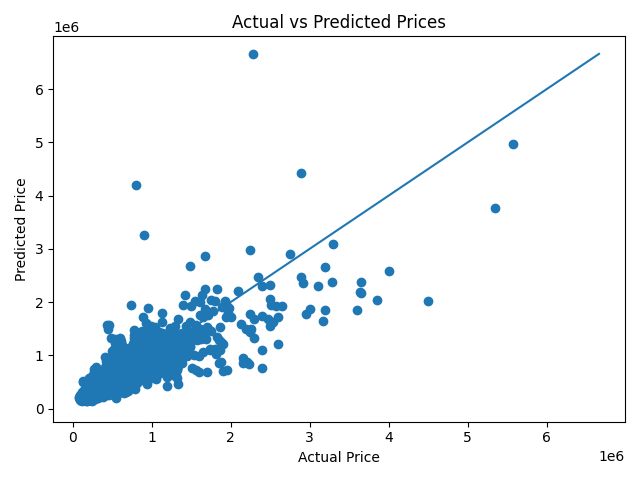
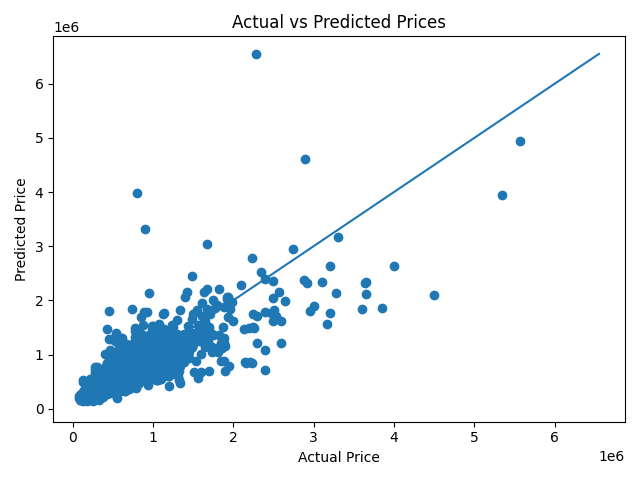
Make project deployable on free tier (Vercel + Render + Atlas)
Hosting choices
- Frontend (Vite SPA)  -> Vercel Hobby
- Backend  (Express)   -> Render Web Service (free)
- ML       (FastAPI)   -> Render Web Service (free)
- Database             -> MongoDB Atlas M0 (already in use)

Code changes
- client: introduce VITE_API_BASE_URL via a new apiFetch helper in
  src/utils/api.js. All four API call sites (AuthContext, UpdateProfile,
  ListingDetails, listingsStore) now prefix /api/... with the env URL,
  so the client can live on a different origin than the server. With
  the env var unset, local dev still uses the Vite proxy unchanged.
- server: allow CLIENT_ORIGIN to be a comma-separated list (prod +
  Vercel preview deploys). Switch JWT auth cookie to SameSite=None +
  Secure in production so cookies survive cross-site requests from
  the Vercel client to the Render API.
- ml_service: bind 0.0.0.0:$PORT (with reload optional via env) so the
  service runs under Render's port assignment. Shrink the Random
  Forest (n_estimators=50, max_depth=15) and use joblib compress=3,
  taking price_model.joblib from ~307 MB down to ~4 MB so it fits in
  Render free's 512 MB RAM. MAE on the King County test split remains
  ~$108k (~20% of median), which is acceptable for the demo.

Deployment configs
- render.yaml: Blueprint for both Render services; trains the ML
  model at build time so we never commit .joblib artifacts.
- client/vercel.json: SPA rewrite + Vite framework hint.
[…]

diff --git a/client/src/data/listingsStore.js b/client/src/data/listingsStore.js
@@ -1,8 +1,8 @@
 import mockListings from './mockListings'
-import { parseJson } from '../utils/api.js'
+import { apiFetch, parseJson } from '../utils/api.js'
 
 export const fetchListings = async () => {
-  const res = await fetch('/api/listings', { credentials: 'include' })
+  const res = await apiFetch('/api/listings')
   const data = await parseJson(res)
   if (res.status === 503 && data?.dbConnected === false) {
     const err = new Error(data?.message || 'Database not available.')
@@ -16,7 +16,7 @@ export const fetchListings = async () => {
 }
 
 export const fetchMyListings = async () => {
-  const res = await fetch('/api/listings/mine', { credentials: 'include' })
+  const res = await apiFetch('/api/listings/mine')
   if (!res.ok) {
     throw new Error('Failed to load your listings.')
   }
@@ -25,10 +25,9 @@ export const fetchMyListings = async () => {
 }
 
 export const createListing = async (payload) => {
-  const res = await fetch('/api/listings', {
+  const res = await apiFetch('/api/listings', {
     method: 'POST',
     headers: { 'Content-Type': 'application/json' },
-    credentials: 'include',
     body: JSON.stringify(payload),
   })
   const data = await parseJson(res)
@@ -39,10 +38,9 @@ export const createListing = async (payload) => {
 }
 
 export const updateListing = async (id, payload) => {
-  const res = await fetch(`/api/listings/${id}`, {
+  const res = await apiFetch(`/api/listings/${id}`, {
     method: 'PUT',
     headers: { 'Content-Type': 'application/json' },
-    credentials: 'include',
     body: JSON.stringify(payload),
   })
   const data = await parseJson(res)
@@ -53,9 +51,8 @@ export const updateListing = async (id, payload) => {
 }
 
 export const deleteListing = async (id) => {
-  const res = await fetch(`/api/listings/${id}`, {
+  const res = await apiFetch(`/api/listings/${id}`, {
     method: 'DELETE',
-    credentials: 'include',
   })
   const data = await parseJson(res)
   if (!res.ok) {
@@ -65,7 +62,7 @@ export const deleteListing = async (id) => {
 }
 
 export const fetchSavedListings = async () => {
-  const res = await fetch('/api/saved', { credentials: 'include' })
+  const res = await apiFetch('/api/saved')
   const data = await parseJson(res)
   if (!res.ok) {
     throw new Error(data?.message || 'Failed to load saved listings.')
@@ -74,7 +71,7 @@ export const fetchSavedListings = async () => {
 }
 
 export const fetchSavedStatus = async (listingId) => {
-  const res = await fetch(`/api/saved/check/${listingId}`, { credentials: 'include' })
+  const res = await apiFetch(`/api/saved/check/${listingId}`)
   const data = await parseJson(res)
   if (!res.ok) {
     return { saved: false }
@@ -83,9 +80,8 @@ export const fetchSavedStatus = async (listingId) => {
 }
 
 export const saveListing = async (listingId) => {
-  const res = await fetch(`/api/saved/${listingId}`, {
+  const res = await apiFetch(`/api/saved/${listingId}`, {
     method: 'POST',
-    credentials: 'include',
   })
   const data = await parseJson(res)
   if (!res.ok) {
@@ -95,9 +91,8 @@ export const saveListing = async (listingId) => {
 }
 
 export const unsaveListing = async (listingId) => {
-  const res = await fetch(`/api/saved/${listingId}`, {
+  const res = await apiFetch(`/api/saved/${listingId}`, {
     method: 'DELETE',
-    credentials: 'include',
   })
   const data = await parseJson(res)
   if (!res.ok) {

diff --git a/client/src/pages/ListingDetails.jsx b/client/src/pages/ListingDetails.jsx
@@ -10,7 +10,7 @@ import {
   saveListing as saveListingApi,
   unsaveListing as unsaveListingApi,
 } from '../data/listingsStore.js'
-import { parseJson } from '../utils/api.js'
+import { apiFetch, parseJson } from '../utils/api.js'
 import { useAuth } from '../context/AuthContext.jsx'
 
 function isMongoId(value) {
@@ -36,7 +36,7 @@ export default function ListingDetails() {
     let active = true
     const load = async () => {
       try {
-        const res = await fetch(`/api/listings/${id}`)
+        const res = await apiFetch(`/api/listings/${id}`, { credentials: 'omit' })
         if (!res.ok) {
           if (active) setRemoteListing(null)
           return
@@ -116,7 +116,7 @@ export default function ListingDetails() {
     }
 
     try {
-      const res = await fetch('/api/ml/analyze', {
+      const res = await apiFetch('/api/ml/analyze', {
         method: 'POST',
         headers: { 'Content-Type': 'application/json' },
         body: JSON.stringify(payload),
@@ -129,7 +129,7 @@ export default function ListingDetails() {
       // Fetch comparable properties separately and merge into result
       let comparables = []
       try {
-        const compsRes = await fetch('/api/ml/comparables', {
+        const compsRes = await apiFetch('/api/ml/comparables', {
           method: 'POST',
           headers: { 'Content-Type': 'application/json' },
           body: JSON.stringify(payload),
@@ -146,7 +146,7 @@ export default function ListingDetails() {
 
       // Call investment advisor endpoint with the aggregated analysis values
       try {
-        const advisorRes = await fetch('/api/ml/advisor', {
+        const advisorRes = await apiFetch('/api/ml/advisor', {
           method: 'POST',
           headers: { 'Content-Type': 'application/json' },
           body: JSON.stringify({

diff --git a/client/src/context/AuthContext.jsx b/client/src/context/AuthContext.jsx
@@ -1,5 +1,5 @@
 import { createContext, useContext, useEffect, useMemo, useState } from 'react'
-import { parseJson } from '../utils/api.js'
+import { apiFetch, parseJson } from '../utils/api.js'
 
 const AuthContext = createContext(null)
 
@@ -9,7 +9,7 @@ export function AuthProvider({ children }) {
 
   const refreshMe = async () => {
     try {
-      const res = await fetch('/api/auth/me', { credentials: 'include' })
+      const res = await apiFetch('/api/auth/me')
       const data = await parseJson(res)
       if (!res.ok) {
         setCurrentUser(null)
@@ -26,10 +26,9 @@ export function AuthProvider({ children }) {
   }, [])
 
   const login = async ({ email, password }) => {
-    const res = await fetch('/api/auth/login', {
+    const res = await apiFetch('/api/auth/login', {
       method: 'POST',
       headers: { 'Content-Type': 'application/json' },
-      credentials: 'include',
       body: JSON.stringify({ email, password }),
     })
     const data = await parseJson(res)
@@ -41,10 +40,9 @@ export function AuthProvider({ children }) {
   }
 
   const register = async ({ username, email, password }) => {
-    const res = await fetch('/api/auth/register', {
+    const res = await apiFetch('/api/auth/register', {
       method: 'POST',
       headers: { 'Content-Type': 'application/json' },
-      credentials: 'include',
       body: JSON.stringify({ username, email, password }),
     })
     const data = await parseJson(res)
@@ -56,7 +54,7 @@ export function AuthProvider({ children }) {
   }
 
   const logout = async () => {
-    await fetch('/api/auth/logout', { method: 'POST', credentials: 'include' })
+    await apiFetch('/api/auth/logout', { method: 'POST' })
     setCurrentUser(null)
   }
 

diff --git a/server/routes/auth.js b/server/routes/auth.js
@@ -9,11 +9,15 @@ const createToken = (userId) => {
   return jwt.sign({ sub: userId }, process.env.JWT_SECRET, { expiresIn: '7d' })
 }
 
+const isProd = process.env.NODE_ENV === 'production'
+
 const setAuthCookie = (res, token) => {
   res.cookie('token', token, {
     httpOnly: true,
-    sameSite: 'lax',
-    secure: process.env.NODE_ENV === 'production',
+    // Cross-site cookies (Vercel client ↔ Render API) require SameSite=None
+    // and Secure. Both Render and Vercel serve over HTTPS, so this is safe.
+    sameSite: isProd ? 'none' : 'lax',
+    secure: isProd,
     maxAge: 7 * 24 * 60 * 60 * 1000,
   })
 }
@@ -94,7 +98,13 @@ router.post('/login', async (req, res) => {
 })
 
 router.post('/logout', (req, res) => {
-  res.clearCookie('token')
+  // clearCookie must mirror the attributes used in setAuthCookie or browsers
+  // will refuse to clear the cookie cross-site.
+  res.clearCookie('token', {
+    httpOnly: true,
+    sameSite: isProd ? 'none' : 'lax',
+    secure: isProd,
+  })
   res.json({ message: 'Logged out.' })
 })
 

diff --git a/client/src/utils/api.js b/client/src/utils/api.js
@@ -1,3 +1,23 @@
+// In production we hit an absolute backend URL (e.g. Render). In dev this is
+// left empty so requests stay relative ("/api/...") and ride the Vite proxy
+// configured in vite.config.js.
+const RAW_BASE = import.meta.env.VITE_API_BASE_URL || ''
+export const API_BASE = RAW_BASE.replace(/\/$/, '')
+
+// Build an absolute or proxy-relative URL for an "/api/..." path.
+export const apiUrl = (path) => {
+  if (!path) return API_BASE
+  const normalized = path.startsWith('/') ? path : `/${path}`
+  return `${API_BASE}${normalized}`
+}
+
+// Thin wrapper around fetch that prefixes API_BASE and forwards credentials
+// (cookies are needed for the JWT auth cookie set by the Express server).
+export const apiFetch = (path, options = {}) => {
+  const { credentials = 'include', ...rest } = options
+  return fetch(apiUrl(path), { credentials, ...rest })
+}
+
 export const parseJson = async (response) => {
   const text = await response.text()
   if (!text) return null

diff --git a/client/src/pages/UpdateProfile.jsx b/client/src/pages/UpdateProfile.jsx
@@ -4,7 +4,7 @@ import Card from '../components/Card'
 import Button from '../components/Button'
 import Input from '../components/Input'
 import { useAuth } from '../context/AuthContext.jsx'
-import { parseJson } from '../utils/api.js'
+import { apiFetch, parseJson } from '../utils/api.js'
 
 export default function UpdateProfile() {
   const { currentUser, refreshMe } = useAuth()
@@ -29,10 +29,9 @@ export default function UpdateProfile() {
     setPrefsMessage(null)
     setPrefsSaving(true)
     try {
-      const res = await fetch('/api/auth/profile', {
+      const res = await apiFetch('/api/auth/profile', {
         method: 'PATCH',
         headers: { 'Content-Type': 'application/json' },
-        credentials: 'include',
         body: JSON.stringify({
           preferredBudget: preferredBudget === '' ? null : Number(preferredBudget),
           riskTolerance: riskTolerance || '',

diff --git a/server/index.js b/server/index.js
@@ -16,9 +16,22 @@ const PORT = process.env.PORT || 5000
 
 app.use(express.json())
 app.use(cookieParser())
+
+// CLIENT_ORIGIN can be a single origin or a comma-separated list (e.g. the
+// Vercel production URL + per-branch preview URLs).
+const allowedOrigins = (process.env.CLIENT_ORIGIN || 'http://localhost:5173')
+  .split(',')
+  .map((o) => o.trim())
+  .filter(Boolean)
+
 app.use(
   cors({
-    origin: process.env.CLIENT_ORIGIN || 'http://localhost:5173',
+    origin: (origin, callback) => {
+      // Allow same-origin / curl / server-side requests with no Origin header.
+      if (!origin) return callback(null, true)
+      if (allowedOrigins.includes(origin)) return callback(null, true)
+      return callback(new Error(`Origin ${origin} not allowed by CORS`))
+    },
     credentials: true,
   })
 )

diff --git a/ml_service/src/train.py b/ml_service/src/train.py
@@ -62,8 +62,15 @@ def train_models(df: pd.DataFrame):
         X, y, test_size=0.2, random_state=42
     )
 
+    # Tuned for free-tier hosting (Render 512 MB RAM): fewer / shallower trees
+    # keep the serialized joblib ~10-15 MB instead of 300+ MB while preserving
+    # most of the accuracy on this ~21 k row King County dataset.
     rf = RandomForestRegressor(
-        n_estimators=200, random_state=42, n_jobs=-1
+        n_estimators=50,
+        max_depth=15,
+        min_samples_leaf=2,
+        random_state=42,
+        n_jobs=-1,
     )
     rf.fit(X_train, y_train)
 
@@ -86,9 +93,11 @@ def train_models(df: pd.DataFrame):
 
 def save_models(rf, scaler, knn):
     MODELS_DIR.mkdir(parents=True, exist_ok=True)
-    joblib.dump(rf, MODELS_DIR / "price_model.joblib")
-    joblib.dump(scaler, MODELS_DIR / "scaler.joblib")
-    joblib.dump(knn, MODELS_DIR / "knn_model.joblib")
+    # compress=3 → ~3-5x smaller files (~10-15 MB instead of 50+ MB) with
+    # negligible load-time overhead. Important for free hosting plans.
+    joblib.dump(rf, MODELS_DIR / "price_model.joblib", compress=3)
+    joblib.dump(scaler, MODELS_DIR / "scaler.joblib", compress=3)
+    joblib.dump(knn, MODELS_DIR / "knn_model.joblib", compress=3)
 
     with (MODELS_DIR / "features.json").open("w", encoding="utf-8") as f:
         json.dump(FEATURES, f)

diff --git a/ml_service/src/api.py b/ml_service/src/api.py
@@ -211,5 +211,8 @@ def analyze(payload: ListingInput):
 if __name__ == "__main__":
     import uvicorn
 
-    uvicorn.run("src.api:app", host="127.0.0.1", port=8000, reload=True)
+    host = os.environ.get("HOST", "0.0.0.0")
+    port = int(os.environ.get("PORT", "8000"))
+    reload_flag = os.environ.get("RELOAD", "true").lower() == "true"
+    uvicorn.run("src.api:app", host=host, port=port, reload=reload_flag)
 

diff --git a/README.md b/README.md
@@ -254,6 +254,62 @@ A surface label (Low / Moderate / High) is shown alongside the percentage in the
 
 ---
 
+## Deployment (Free Tier)
+
+The app is designed to run end-to-end on free hosting tiers:
+
+| Layer | Vendor | Plan |
+| --- | --- | --- |
+| Frontend (Vite SPA) | **Vercel** | Hobby (free) |
+| Backend (Express) | **Render** Web Service | Free |
+| ML service (FastAPI) | **Render** Web Service | Free |
+| Database | **MongoDB Atlas** | M0 (free) |
+| Keep-alive ping | **cron-job.org** | Free |
+
+The Random Forest in `ml_service/src/train.py` is intentionally tuned (`n_estimators=50`, `max_depth=15`, `joblib.dump(..., compress=3)`) so the serialized model stays around **4–5 MB** and the running service comfortably fits in the 512 MB Render free-tier RAM limit. Models are not committed to git — Render runs `python -m src.train` at build time and regenerates them from `ml_service/data/kc_house_data.csv`.
+
+### Step 1 — MongoDB Atlas
+1. In **Network Access**, add `0.0.0.0/0` (or Render's documented egress range).
+2. Grab the connection string for your DB user and have it ready.
+
+### Step 2 — Render (backend + ML)
+The repo ships with a `render.yaml` Blueprint at the root.
+
+1. Push the repo to GitHub (already done).
+2. In Render → **New + → Blueprint** → connect this repo → apply.
+3. Render will create two services: `ai-realestate-api` and `ai-realestate-ml`.
+4. On the **ML service**, no extra env vars are required.
+5. On the **API service**, fill in (Dashboard → Environment):
+   - `MONGO_URI` → Atlas connection string (with the real password)
+   - `JWT_SECRET` → any long random string
+   - `ML_BASE_URL` → `https://ai-realestate-ml.onrender.com` (the URL of the ML service shown in Render)
+   - `CLIENT_ORIGIN` → leave blank for now; we'll fill it in after Vercel
+6. Note both Render URLs (e.g. `https://ai-realestate-api.onrender.com`, `https://ai-realestate-ml.onrender.com`).
+
+### Step 3 — Vercel (frontend)
+1. In Vercel → **Add New → Project** → import this GitHub repo.
+2. Set **Root Directory** to `client/`.
+3. Framework preset: **Vite** (auto-detected). Build command and output dir come from `client/vercel.json`.
+4. Add **Environment Variable**:
+   - `VITE_API_BASE_URL` → `https://ai-realestate-api.onrender.com` (your Render API URL, no trailing slash)
+5. Deploy. Vercel gives you `https://<project>.vercel.app`.
+
+### Step 4 — Finish wiring CORS
+Back in Render, set `CLIENT_ORIGIN` on the API service to your Vercel URL (you can pass multiple comma-separated origins, e.g. `https://<project>.vercel.app,https://<project>-git-main-<user>.vercel.app`). Save → Render redeploys.
+
+### Step 5 — Keep the free services warm (optional)
+Render free services sleep after 15 min of inactivity (~50 s cold start). To avoid this on demo day:
+
+1. Sign up at <https://cron-job.org> (free).
+2. Add two jobs, every 14 minutes:
+   - `GET https://ai-realestate-api.onrender.com/health`
+   - `GET https://ai-realestate-ml.onrender.com/health`
+
+### Local dev still works the same
+When `VITE_API_BASE_URL` is unset (typical for `npm run dev`), the client falls back to relative `/api/...` URLs and the Vite proxy in `client/vite.config.js` forwards them to `http://localhost:5050`. No deployment-specific code paths need to run locally.
+
+---
+
 ## Future Work
 
 - Replace the rule-based advisor with an **LLM-powered explanation layer** that justifies recommendations in natural language.
